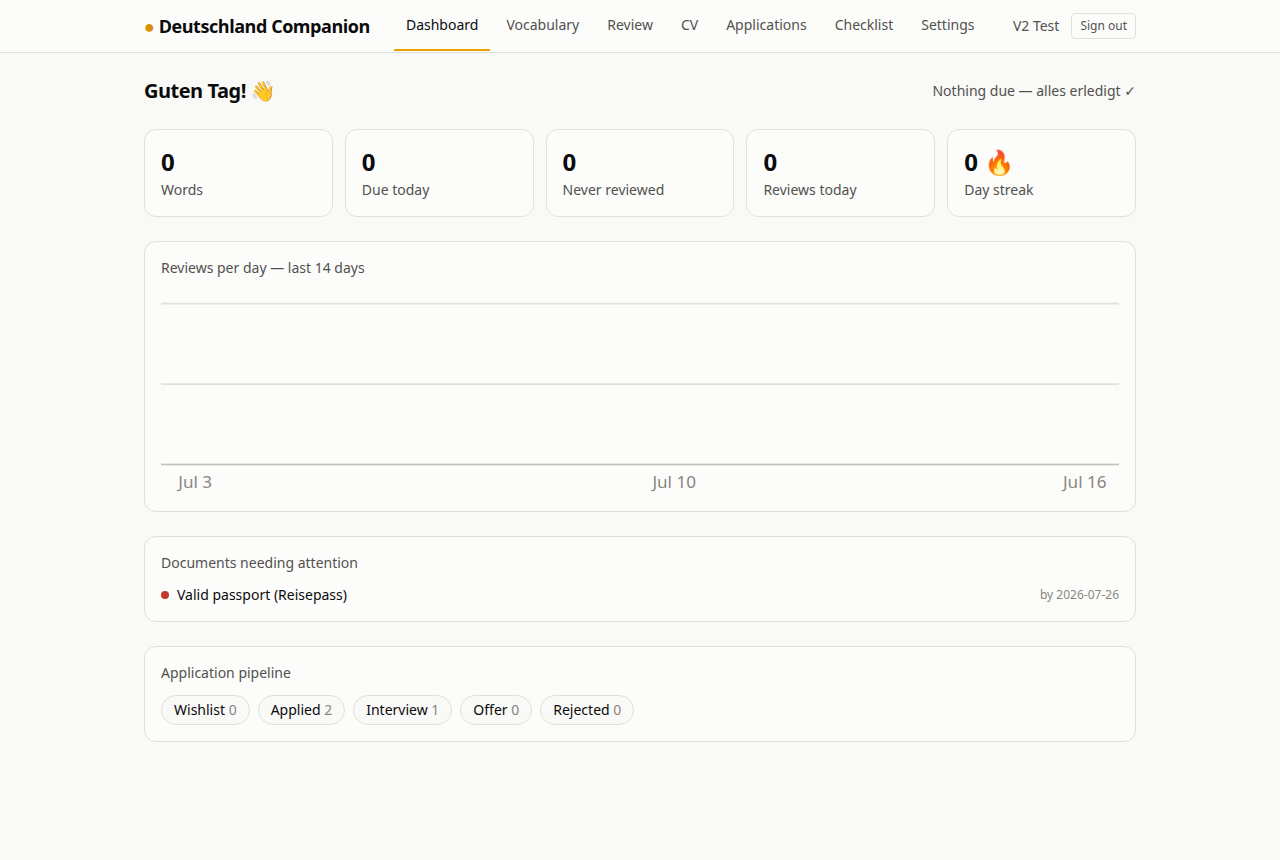
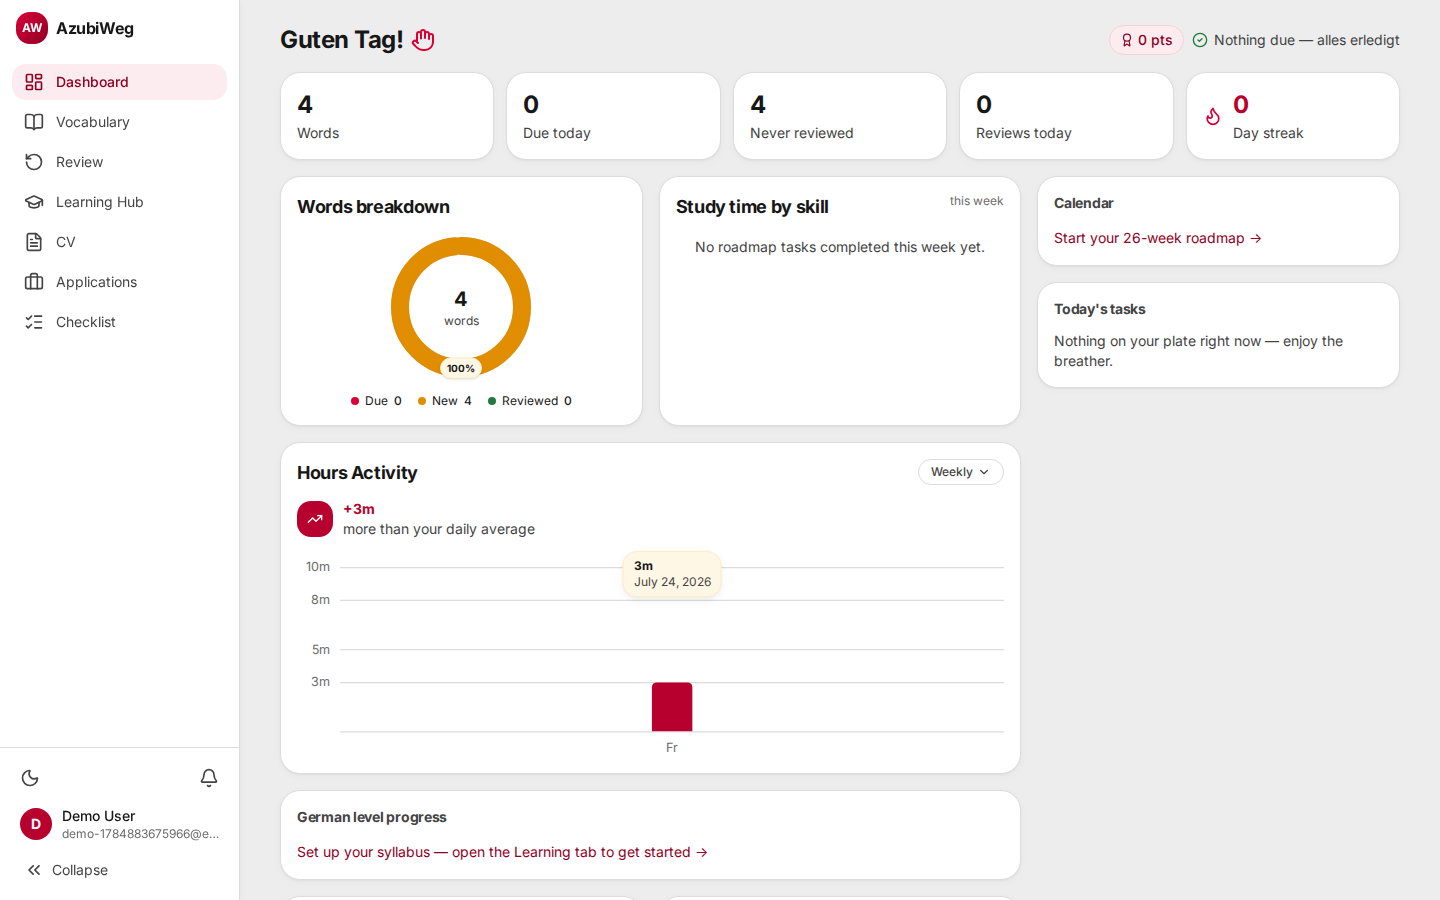
Refresh README screenshots for the redesigned UI, trim verbose sections
Screenshots were from the pre-redesign top-navbar layout; recaptured
against a fresh demo account (synthetic data, not production) after
the sidebar/dashboard redesign. Also condensed the vault-sync deep-dive,
V3 feature list, and test-suite enumeration, dropped an orphaned unused
V1 dashboard screenshot, and synced the Roadmap section with
docs/ROADMAP.md's shipped-V3 status.

diff --git a/README.md b/README.md
@@ -3,17 +3,12 @@
 A platform for people preparing to move to Germany — built by someone doing exactly that.
 
 I'm preparing for an Ausbildung in Germany: learning German, collecting documents,
-tracking applications. This app solves the problems I hit along the way, starting
-with the biggest one — vocabulary. **Version 1** is a German vocabulary manager with
-spaced-repetition review that stays in **two-way sync with my existing Obsidian
-vault**, so my phone capture workflow and Obsidian reviews keep working while the
-web app adds search, statistics, and a proper review UI on top. **Version 2** adds
-the application side of the journey: a German CV builder with live PDF preview, a
-kanban application tracker, and a document checklist preloaded with everything the
-Ausbildung visa process demands. **Version 3** adds a Learning Progress Hub: a
-CEFR syllabus (A1→B1), a day-by-day 182-day study roadmap, self-test quizzes,
-gamification (points, badges, streaks), and activity tracking — all feeding a
-richer dashboard.
+tracking applications. This app solves the problems I hit along the way. **V1** is
+a German vocabulary manager with spaced-repetition review, kept in **two-way sync
+with my Obsidian vault**. **V2** adds the application side: a CV builder with live
+PDF preview, a kanban application tracker, and a document checklist for the
+Ausbildung visa process. **V3** adds a Learning Progress Hub — a CEFR syllabus, a
+day-by-day study roadmap, self-tests, and gamification — feeding a richer dashboard.
 
 ![Dashboard](docs/screenshots/10-dashboard-v2.png)
 
@@ -36,22 +31,11 @@ richer dashboard.
 
 ### How the vault sync works
 
-The vault's `Vocab/master.md` is the **source of truth**; the database is a
-queryable mirror. The server:
-
-- parses the flashcard format (`- **word** :: back` + `<!--SR:…-->` schedule
-  comments) and **round-trips it byte-identically** (enforced by tests against a
-  real vault snapshot);
-- watches `master.md` with chokidar — edits made in Obsidian, by sync from the
-  phone, or by the original `add_word.py` script appear in the app within seconds;
-- watches `inbox.md` — words captured on iOS get enriched into full flashcards
-  automatically, replicating the Python workflow;
-- writes app-side changes (added words, edits, review grades) back into the same
-  format, atomically, with hash-based echo suppression so its own writes don't
-  trigger re-syncs;
-- backs up `master.md` into `server/data/` the first time it links a vault.
-
-Reviews done in the app and reviews done in Obsidian update the same
+The vault's `Vocab/master.md` is the **source of truth**. The app watches it (and
+`inbox.md`, for words captured on iOS) and mirrors changes into Postgres within
+seconds, then writes its own edits — added words, reviews, grades — back into the
+exact same flashcard format, **byte-identical** (verified against a real vault
+snapshot). Reviews done in the app and in Obsidian update the same
 `<!--SR:!date,interval,ease-->` comments, so both schedulers stay in step.
 
 ## What V2 adds
@@ -81,31 +65,21 @@ Reviews done in the app and reviews done in Obsidian update the same
 ## What V3 adds
 
 - **CEFR syllabus** — 174 seeded topics (grammar/vocab/skill) across A1, A2, and
-  B1, each with theme, description, common mistakes, worked examples, and
-  exceptions. Checking items off drives per-level completion percentage and
-  "what's next" suggestions.
-- **Day-by-day roadmap** — a 182-day (26-week) study plan from day one to
-  Goethe-exam readiness. Monday/Tuesday (grammar) and Wednesday (vocab) of every
-  regular week are generated live from the user's own syllabus progress;
-  Thursday–Sunday (listening, speaking, writing, bureaucracy/context tasks) are
-  hand-authored. Calendar view, backlog of overdue tasks, and a journal that
-  logs completions by skill.
-- **Study-source registry** — register YouTube playlists (fetches title/item
-  count), Nicos Weg chapters, Duolingo units, or other sources, and self-log
-  progress against them, since none of these platforms expose a progress API.
-- **Self-tests & Goethe readiness** — quizzes (163-question bank) built from
-  syllabus topics and existing vocab/SRS data; weekly/monthly review rollups;
-  a "Goethe readiness" indicator per level with a trend arrow.
-- **Gamification** — points and 15 badges (streaks, syllabus-level completion,
-  roadmap milestones at weeks 8/16/25/26, perfect-day streaks, vocab/review
-  totals), day-streak computed from real activity, not just logins.
-- **Activity tracking** — lightweight session pings roll up into daily active
-  minutes, powering streaks and the dashboard's activity history.
-- **Notifications** — on-demand reminders (no portal APIs to poll, so these are
-  computed from data the app already has): stale applications, documents
-  nearing expiry, portals not checked recently.
-- **Portals** — quick-link bookmarks to external application platforms
-  (GoAusbildung, Ausbildung.de, …) since none of them offer account sync.
+  B1. Checking items off drives per-level completion percentage and "what's
+  next" suggestions.
+- **Day-by-day roadmap** — a 182-day (26-week) study plan to Goethe-exam
+  readiness, generated live from syllabus progress, with a calendar view and
+  overdue backlog.
+- **Study-source registry** — register YouTube playlists, Nicos Weg chapters,
+  or Duolingo units and self-log progress, since none of these platforms
+  expose a progress API.
+- **Self-tests & Goethe readiness** — a 163-question bank built from syllabus
+  topics and vocab/SRS data, with weekly/monthly readiness rollups.
+- **Gamification & activity tracking** — points, 15 badges, and day-streaks
+  computed from real activity, feeding the dashboard's activity history.
+- **Notifications & portals** — on-demand reminders (stale applications,
+  expiring documents) and quick-link bookmarks to platforms like GoAusbildung,
+  since none of them offer account sync or public APIs.
 
 ## Stack
 
@@ -150,18 +124,10 @@ point it at the vault root, the folder containing `Vocab/master.md`.
 cd server && npm test
 ```
 
-The critical suites: byte-identical round-trip of a real `master.md` snapshot
-(`tests/vault-roundtrip.test.ts`), SRS parity with real plugin output
-(`tests/srs.test.ts`), and the V2 pure-logic suites — UTC-safe expiry math
-(`reminders`), kanban move planning (`application-order`), tracker stats
-(`application-stats`), CV content validation (`cv-schema`), and upload-name /
-download-header safety (`file-storage`). V3 adds suites for the roadmap
-generator and day-status math (`learning-roadmap`, `learning-roadmap-generator`),
-streak computation (`learning-streak`), the quiz/question-bank engine
-(`learning-quiz`, `question-bank`), study-source progress (`learning-units`,
-`learning-nicosweg`, `learning-youtube`), the gamification badge/points engine
-(`gamification-engine`), and session-based activity tracking
-(`activity-session`).
+Covers the vault sync's byte-identical round-trip, SRS scheduling parity with
+the Obsidian plugin, and pure-logic suites for applications, CVs, checklist
+reminders, and the Learning Hub (roadmap generation, quizzes, gamification,
+activity tracking).
 
 ## Deployment
 
@@ -176,20 +142,13 @@ See [docs/ROADMAP.md](docs/ROADMAP.md) for the full ecosystem plan and feature s
 
 - ~~**V2** — CV builder (live preview, German/ATS templates, PDF export),
   application tracker (kanban + stats), document checklist with expiry reminders.~~ ✅
-- ~~**V3 — Learning Progress Hub**~~ ✅
-  - ~~CEFR syllabus checklists (A1 → B1), study-source registry (YouTube,
-    Nicos Weg, Duolingo), self-test quizzes, day-by-day 182-day roadmap,
-    gamification (points/badges/streaks), activity tracking, notifications.~~
-  - Still open from the original V3 scope, carried forward: **salary & cost
-    planner** (city comparison, taxes, rent, budget, savings projections) and
-    a **Germany knowledge base** (visa, Anmeldung, blocked account, insurance
-    guides).
-- **V4 — Applications, deeper**
-  - **Ausbildung opportunity discovery** — job listing search and filters (salary,
-    required German level), bookmarks that feed the existing kanban, notifications.
-  - Cover letter assistant, Europass CV template, automated ATS checks.
-  - Dashboard upgrades: certificates, milestones, GitHub activity.
-- **V5 — Infrastructure & polish**
-  - Vocab PDF export and a CLI for the vocabulary manager.
-  - GitHub Actions CI (server test suites + client typecheck/lint on push).
-  - Calendar integration, grammar micro-lessons.
+- ~~**V3 — Learning Progress Hub**~~ ✅ CEFR syllabus, day-by-day roadmap,
+  self-tests, gamification, activity tracking. The **salary & cost planner**
+  and **Germany knowledge base** were also scoped here but haven't shipped —
+  carried forward, unscheduled.
+- **V4 — Applications, deeper** — Ausbildung opportunity discovery (search/
+  filters/bookmarks feeding the kanban), cover letter assistant, Europass CV
+  template, automated ATS checks, dashboard upgrades (certificates, GitHub
+  activity).
+- **V5 — Infrastructure & polish** — vocab PDF export and CLI, GitHub Actions
+  CI, calendar integration, grammar micro-lessons.

diff --git a/docs/ROADMAP.md b/docs/ROADMAP.md
@@ -10,12 +10,21 @@ sketches the next features in enough detail to start implementation from.
 | # | Planner module | Status | What exists / what's missing |
 |---|---|---|---|
 | 1 | Deutsch Vault | **Mostly built** (V1) | Vocab manager with enrichment, pronunciation audio, grammar data, SM-2 spaced revision, Obsidian two-way sync, search. Missing: vocab PDF export, CLI. |
-| 2 | Ausbildung Opportunity Tracker | **Missing** (discovery side) | We track applications *after* they're made (kanban + stats). Job *discovery* — listing search, filters by salary/German level, bookmarks, notifications — doesn't exist yet. Planned for V4. |
-| 3 | Bureaucracy Companion | **Partially built** (V2) | Document checklist seeded with ~24 non-EU Ausbildung items, file attachments, expiry reminders. Missing: guided explanatory content per topic (moves into the knowledge base, V3). |
+| 2 | Ausbildung Opportunity Tracker | **Missing** (discovery side) | We track applications *after* they're made (kanban + stats), plus on-demand notifications (stale applications, portal check reminders). Job *discovery* — listing search, filters by salary/German level, bookmarks — doesn't exist yet. Planned for V4. |
+| 3 | Bureaucracy Companion | **Partially built** (V2) | Document checklist seeded with ~24 non-EU Ausbildung items, file attachments, expiry reminders. Missing: guided explanatory content per topic (moves into the knowledge base). |
 | 4 | European Resume Builder | **Mostly built** (V2) | CV builder with live PDF preview, German Lebenslauf + ATS-friendly English templates, multiple CVs per account. Missing: Europass template, cover letters, automated ATS checks (V4). |
-| 5 | Salary & Cost Planner | **Missing** | City comparison, taxes, rent, budget, savings projections. Planned for V3. |
-| 6 | Deutschland Dashboard | **Partially built** (V2) | Dashboard shows documents needing attention and application stats. Missing: language progress, study streaks, certificates, milestones, GitHub activity (V3/V4). |
-| 7 | Germany Knowledge Base | **Missing** | Guides for visa, Anmeldung, blocked account, insurance, housing, FAQs. Planned for V3; a community-wiki model with contributions is a possible later evolution. |
+| 5 | Salary & Cost Planner | **Missing** | City comparison, taxes, rent, budget, savings projections. Carried forward from V3, not yet started. |
+| 6 | Deutschland Dashboard | **Built** (V2/V3) | Dashboard shows documents needing attention, application stats, syllabus/roadmap progress, study streaks, badges, and activity history. Missing: certificates, GitHub activity (V4). |
+| 7 | Germany Knowledge Base | **Missing** | Guides for visa, Anmeldung, blocked account, insurance, housing, FAQs. Carried forward from V3, not yet started; a community-wiki model with contributions is a possible later evolution. |
+
+**V3 (Learning Progress Hub) shipped**: CEFR syllabus (174 items, A1→B1), a
+generated day-by-day 182-day roadmap, study-source registry (YouTube/Nicos
+Weg/Duolingo), self-test quizzes (163-question bank), weekly/monthly review
+and Goethe-readiness rollups, gamification (points, 15 badges, streaks), and
+session-based activity tracking. See the [README](../README.md#what-v3-adds)
+for the user-facing feature list. What's left from the original V3 scope —
+the salary & cost planner and the Germany knowledge base — carries forward
+(see Phasing below).
 
 ## Architecture decisions (where we diverge from the planner)
 
@@ -76,9 +85,11 @@ next thing to study.
 
 ## Phasing
 
-- **V3** — Learning Progress Hub; salary & cost planner; Germany knowledge base.
+- ~~**V3** — Learning Progress Hub~~ ✅ shipped. Salary & cost planner and
+  Germany knowledge base were originally scoped here too but didn't ship yet —
+  carried forward, unscheduled.
 - **V4** — Ausbildung opportunity discovery (search/filters/bookmarks feeding the
-  kanban, notifications); cover letter assistant; Europass template; ATS checks;
-  dashboard upgrades (certificates, milestones, GitHub activity).
+  kanban); cover letter assistant; Europass template; ATS checks;
+  dashboard upgrades (certificates, GitHub activity).
 - **V5** — vocab PDF export; vocabulary CLI; GitHub Actions CI; calendar
   integration; grammar micro-lessons.
